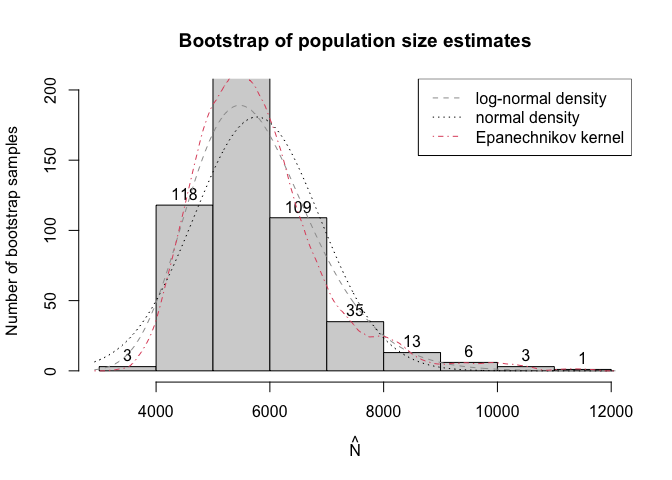
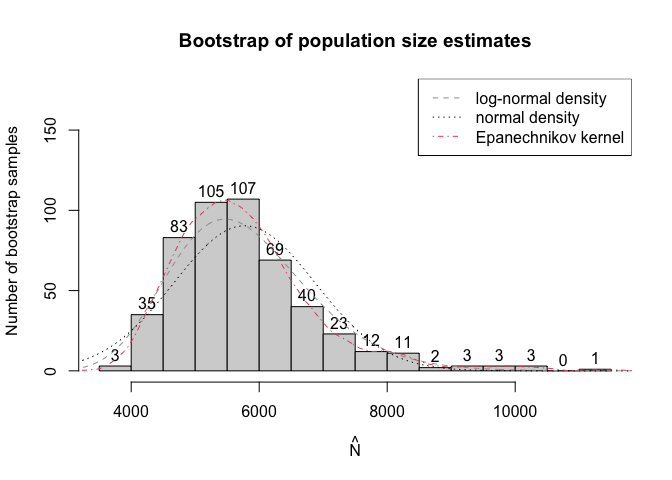
Update readme with zenodo badge
and fix for histogram

diff --git a/README.md b/README.md
@@ -12,6 +12,7 @@ coverage](https://codecov.io/gh/ncn-foreigners/singleRcapture/branch/main/graph/
 status](https://www.r-pkg.org/badges/version/singleRcapture)](https://CRAN.R-project.org/package=singleRcapture)
 [![CRAN
 downloads](http://cranlogs.r-pkg.org/badges/grand-total/singleRcapture?color=blue)](https://cran.r-project.org/package=singleRcapture)
+[![DOI](https://zenodo.org/badge/DOI/10.5281/zenodo.8436043.svg)](https://doi.org/10.5281/zenodo.8436043)
 <!-- badges: end -->
 
 Capture-recapture type experiments are used to estimate the total
@@ -444,7 +445,8 @@ the user):
 plot(modelInflated2, 
      plotType = "bootHist", 
      labels = TRUE, 
-     ylim = c(0, 200))
+     ylim = c(0, 175),
+     breaks = 15)
 ```
 
 <img src="man/figures/README-unnamed-chunk-11-1.png" width="75%" />
